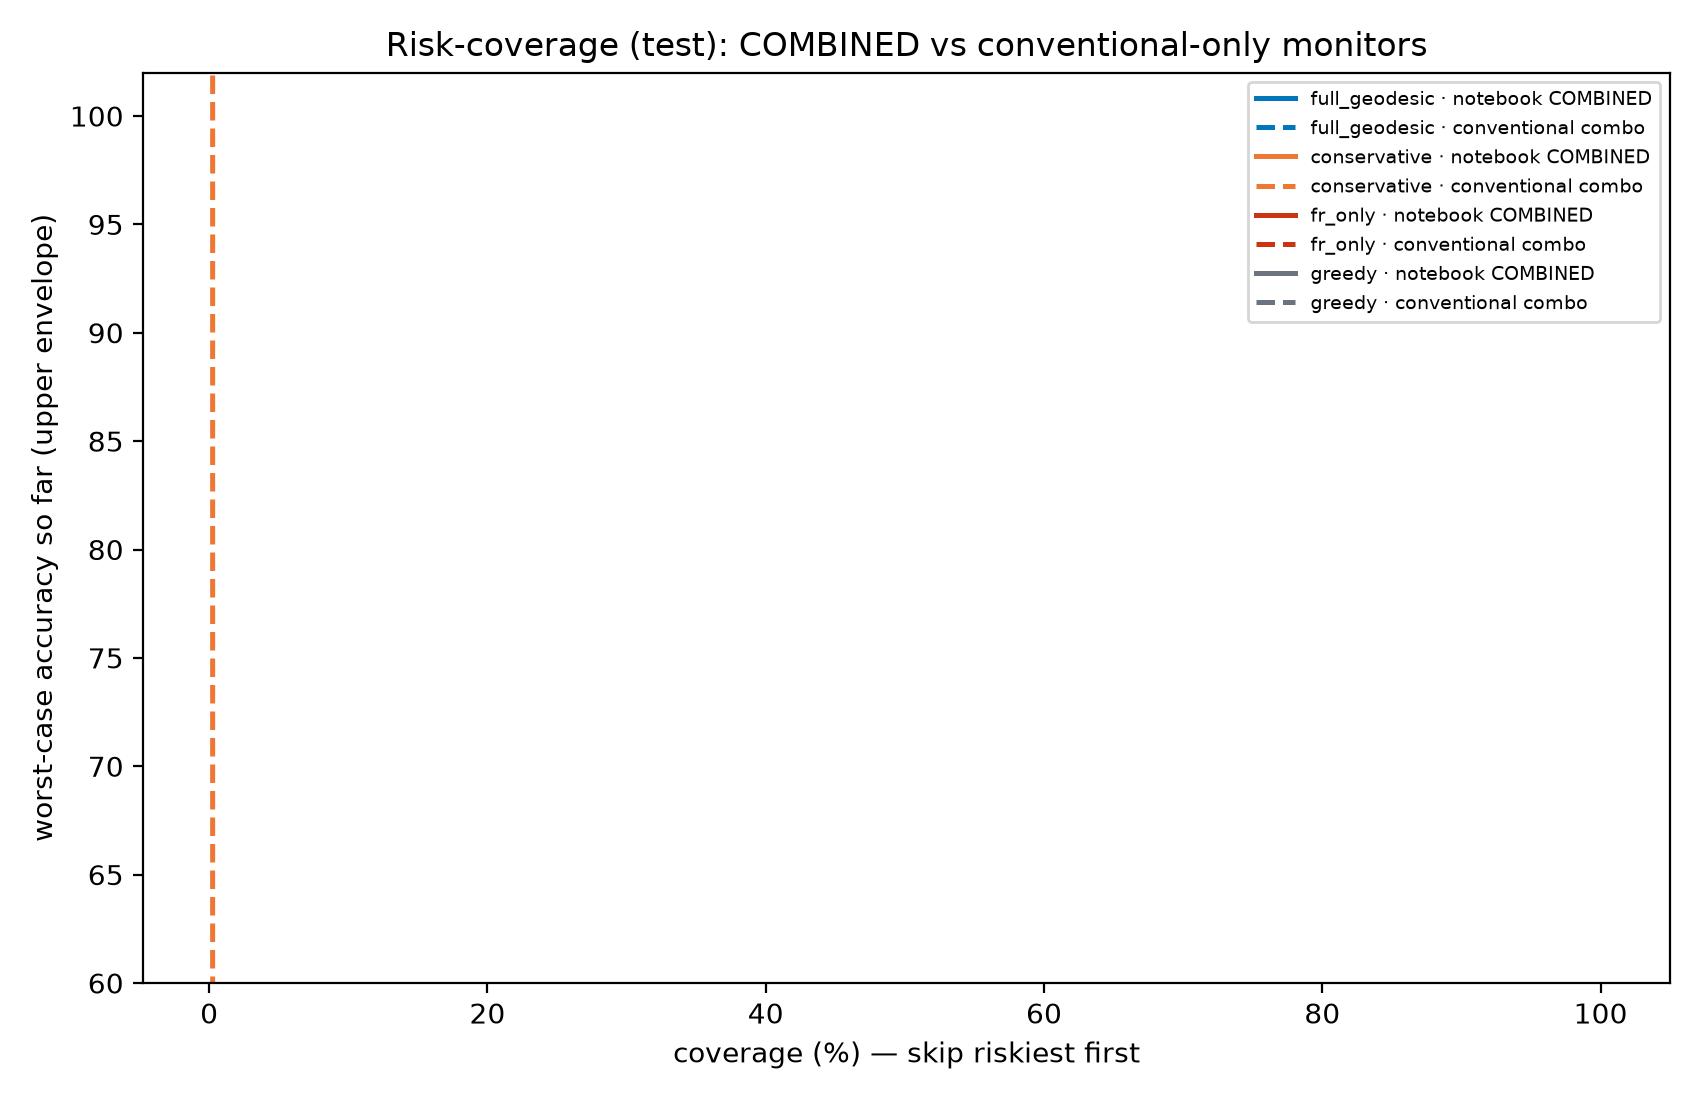
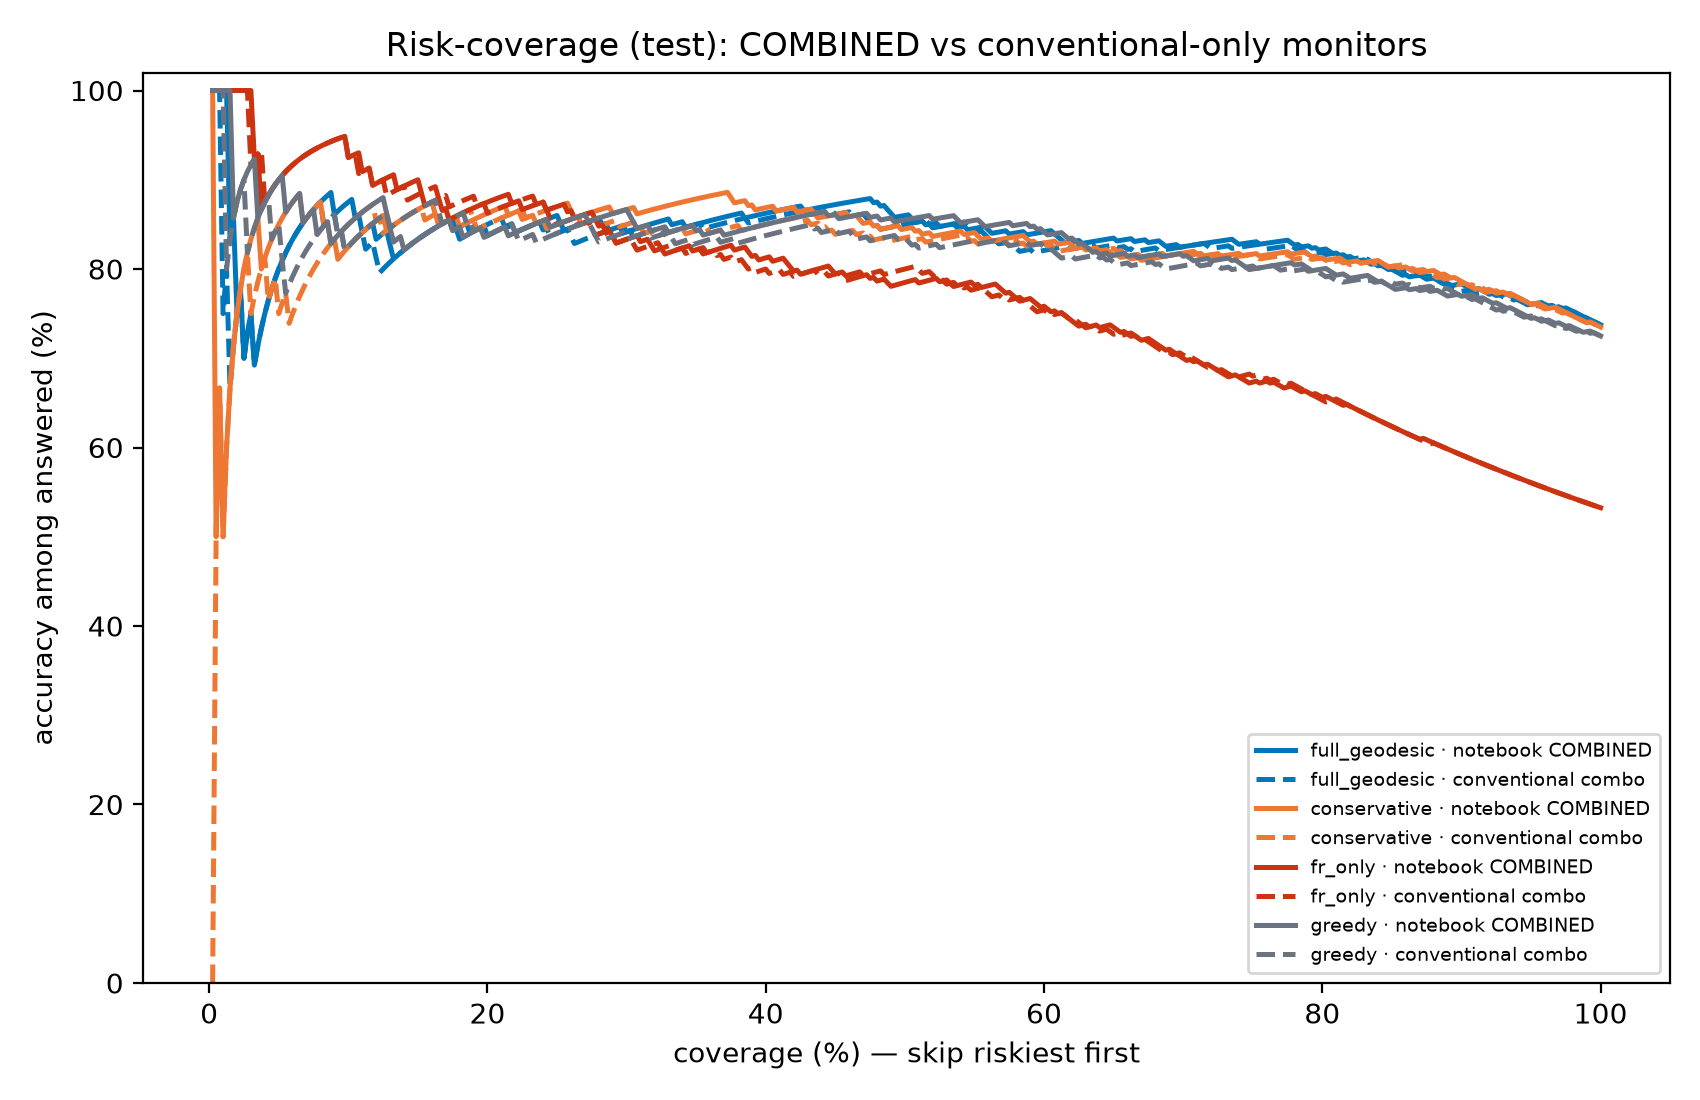
v3: fix risk-coverage normalization bug in figures + image-rich simple-English README
- BUG (D6): risk-coverage curves divided cumulative corrects by coverage fraction
  instead of question count -> y-axis showed ~30000 (mislabeled %); fixed in
  audit_analysis.py (run-1) and run2_analysis.py (run-2); figures regenerated;
  NO statistics changed (CONV 0.770219 reproduced exactly)
- README rewritten in simpler English, now embeds 4 real figures from the repo
  (AUROC forest, risk-coverage, run-1 overview/confound, reliability)
- added 30-second glossary for non-experts; honest footnote on exploratory
  CONV+max_frcons 0.775 (+0.005 n.s.)

diff --git a/analysis/audit_analysis.py b/analysis/audit_analysis.py
@@ -447,12 +447,12 @@ for m, colr in [("full_geodesic", "#0077BB"), ("conservative", "#EE7733"),
         s2 = s.dropna(subset=[monitor]).sort_values(monitor)
         yw = (s2.correct_checked == 0).astype(float).values
         cov = (np.arange(len(s2)) + 1) / len(s2)
-        acc = (1 - yw).cumsum() / cov  # accuracy among the retained prefix
+        acc = (1 - yw).cumsum() / (np.arange(len(s2)) + 1)  # accuracy among the answered prefix
         ax.plot(100 * cov, 100 * acc, color=colr, ls=ls, lw=1.8,
                 label=f"{m} · {label}")
-ax.set_ylim(60, 102); ax.legend(fontsize=7)
+ax.set_ylim(0, 102); ax.legend(fontsize=7)
 ax.set_xlabel("coverage (%) — skip riskiest first")
-ax.set_ylabel("worst-case accuracy so far (upper envelope)")
+ax.set_ylabel("accuracy among answered (%)")
 ax.set_title("Risk-coverage (test): COMBINED vs conventional-only monitors")
 fig.tight_layout(); fig.savefig(f"{FIGS}/fig_risk_coverage.png", dpi=200)
 

diff --git a/analysis/run2_analysis.py b/analysis/run2_analysis.py
@@ -314,7 +314,7 @@ def main():
         yw = test.wrong.values
         order = np.argsort(-p)
         cov = (np.arange(len(yw)) + 1) / len(yw)
-        acc = (1 - yw[order]).cumsum() / cov
+        acc = (1 - yw[order]).cumsum() / (np.arange(len(yw)) + 1)
         ax.plot(100 * cov, 100 * acc, lw=2, label=label)
     ax.axvline(80, ls="--", c="k", lw=1)
     ax.set_xlabel("coverage (%) (skip riskiest first)")

diff --git a/README.md b/README.md
@@ -1,169 +1,183 @@
-# Fisher-Rao Monitors for LLM Correctness — A Controlled Study
+# Do geometry features help catch a language model's wrong answers?
 
-**One-sentence summary for a busy reader:** In a pre-registered, artifact-audited test on 500 GSM8K questions with Qwen2.5-1.5B-Instruct, Fisher–Rao distances between candidate future continuations added **no** incremental predictive information beyond simple entropy/NLL/length features for classifying wrong answers (8/8 augmentation arms ≤ 0 ΔAUROC), and an earlier headline number (≈0.84 AUROC) is shown to be a numerator–regime confound.
+**One-sentence answer from this study: on our test, no.**
 
-This project tests one clear question: **do Fisher-Rao geometry features help
-predict when a language model gives a wrong answer, beyond simple features
-like entropy and NLL?**
+We tested a fancy idea from math ("Fisher–Rao geometry") as a way to tell when
+the model Qwen2.5-1.5B-Instruct gets a GSM8K math question wrong. The simple
+features (how surprised the model is, how long its answer is) worked.
+The geometry features added **zero** extra help.
 
-The short answer: **on our experiment, no.** We ran a controlled test. We
-report the full result honestly, including what went wrong first.
+We also show why an earlier version of this study looked much better
+(AUROC ≈ 0.84) and why that number was a trap.
 
-This repo is for GSM8K math questions. We used the **Qwen2.5-1.5B-Instruct**
-model. If you reuse our method, cite this repo and check the limits in Section
-"Known limits".
+Everything here is open. Every number comes from a file you can check.
 
 ---
 
-## What this repo contains
+## New to this? Read this first (30 seconds)
 
-| Folder / file | What it is |
-|---|---|
-| `notebooks/geodesic_study.ipynb` | The main notebook. Cell 1 is the first experiment. Cell 2 fixes the crowd-sourced top-k bug and adds clean decoding. Cell 3 is the run-2 monitor experiment. |
-| `analysis/` | All analysis code. Each script runs on its own. |
-| `kernels/` | Kaggle kernel notebooks we used on 2x T4 GPUs. |
-| `geodesic_study/` | Raw results of the first experiment (run 1). Split files, gold answers, small CSVs. |
-| `kaggle_out/` | Raw results of the second experiment (run 2). Large CSVs live here. Some are too big for GitHub. |
-| `docs/` | All reports. Start here if you just want the story. |
-| `docs/audit_phase1.md` | The audit of run 1. It found four real problems. |
-| `docs/run2_report.md` | The full report of run 2 (the controlled test). |
-| `docs/experiment_protocol.md` | The plan we froze before running. It states the rules and pass criteria. |
-| `paper/` | Draft research paper, an audit checklist, and a review-style report. |
-| `experiment/` | One plan to repeat the test on a bigger model. Not run yet. |
+- **A "monitor"** is a small helper model. It watches the big model and
+  guesses: *right answer or wrong answer?*
+- **AUROC** is a score from 0.0 to 1.0.
+  - 0.5 = coin flip (useless).
+  - 1.0 = perfect.
+  - 0.77 = clearly useful but not perfect.
+- **Entropy** = how unsure the model is about its next word. High = unsure.
+- **NLL** (negative log-likelihood) = another word for "how surprised the
+  model is". Low = confident.
+- **Fisher–Rao (FR) distance** = a smart mathematical distance between two
+  probability distributions. Our question: does this smart distance see
+  things that plain entropy cannot see?
+- **Answer: no.** On this model and task: no.
 
 ---
 
 ## The results in one minute
 
-We decoded 500 GSM8K questions with plain greedy decoding (no sampling).
-At every step we saved all 4 top tokens. For each token we saved:
-negative log probability, entropy of its next-step distribution, and
-Fisher-Rao distances between candidate futures.
+We took 500 GSM8K questions. 100 for training the monitor, 400 kept away for
+testing (untouched, frozen, never peeked at while building).
 
-Then we built small classifiers ("monitors") to predict *wrong vs. right*
-final answers. We trained on 100 questions. We tested on 400 untouched
-questions. Here is what we found.
-
-| Monitor | AUROC on test data | Notes |
+| Monitor | AUROC on 400 test questions | What it means |
 |---|---|---|
-| Entropy + NLL + length only | **0.770** (CI 0.713 - 0.821) | Best monitor. Simple features win. |
-| Same + all 6 Fisher-Rao features | 0.728 | Fisher-Rao did not help. |
-| Fisher-Rao features only | 0.661 | Weaker than simple features. |
+| Simple: entropy + NLL + answer length | **0.770** (CI 0.713 – 0.821) | Best. Simple features win. |
+| Simple + all 6 geometry features | 0.728 | Geometry made it **worse**. |
+| Geometry features only | 0.661 | Some signal, but weaker than simple. |
 
-The confidence intervals come from a paired bootstrap with 2000 resamples.
-Seed 42 everywhere. Code and data are in `analysis/` and `kaggle_out/`.
+More results, with all 8 statistical tests: one exploratory (not
+pre-registered) arm, CONV+max_frcons, scored 0.775 — that is only +0.005 and
+it is not statistically significant. Nothing else got even +0.005.
 
-**Main finding.** Fisher-Rao geometry did not add useful information here
-once entropy and length features were already used. Some Fisher-Rao features
-even hurt the monitor.
+### The main chart
 
-**A second finding.** An earlier version of our experiment showed an AUROC
-near 0.84. That number was misleading. The reason: bad sampling made the
-model fail more often, and that regime made simple features look very
-strong. The paper and `docs/run2_report.md` explain this step by step.
+*Every monitor tested. The dashed line at 0.5 = coin flip. Higher = better.
+The best simple setup sits near 0.77; the geometry-only setups sit lower.*
+
+![Monitor AUROC chart with 95% confidence intervals](analysis/figures/fig_auroc_forest.png)
+
+### What "skipping hard questions" looks like
+
+If the monitor is good, you can skip the questions it marks as risky and the
+questions you do answer become more accurate. Here is that trade-off.
+At the 80% line (answer 80% of questions), the simple monitor and the
+geometry monitor are close to each other or the simple one is better.
+
+![Risk coverage curves](analysis/figures/fig_run2_risk_coverage.png)
+
+### The trap: what the old ≈0.84 number really was
+
+In our first run, one decoding arm accidentally made the model much weaker
+(52% accuracy instead of 72%). In that broken regime, simple features looked
+amazing (AUROC ≈ 0.84). But that was a feature of the broken regime, not a
+feature of the geometry method. We show the pieces of this mistake
+step-by-step in the paper. This chart shows how much worse the weak arm was:
+
+![Accuracy of 6 decoding methods, run 1](geodesic_study/accuracy_overview.png)
+
+*The red bar (`fr_only`, 52%) is the accidentally weak decoding arm.
+Everything else is ~72%.*
+
+### Honesty chart: our monitor scores are ranks, not probabilities
+
+The monitors output a risk score. We scale it to 0–1 for plots. It is a
+*ranking*, not a calibrated probability. This is stated everywhere.
+
+![Reliability curves](analysis/figures/fig_reliability.png)
 
 ---
+
+## Why you can trust these numbers
+
+- Frozen test set. We never tuned anything on it.
+- We wrote the pass/fail rules **before** looking at the run-2 results.
+- Decoding is fully deterministic. Re-running gives byte-identical outputs
+  (we checked, via md5, across two separate GPU sessions).
+- We found **four bugs in our own analysis**. We fixed them, and we published
+  the wrong version *and* the fixed version, so you can see the difference.
+- Independent checks with sklearn matched our own code exactly (0.0
+  difference) on every monitor.
+- Two previous headline claims from this project were themselves wrong — the
+  README you are reading now is the corrected story.
 
 ## Where this sits in the literature
 
 We searched arXiv (cs.CL) on 2026-10-17. Nobody we found tests
-"Fisher-Rao distance between candidate futures" as a monitor feature the way
-this study does. But Fisher-Rao geometry IS being used in other LLM roles —
+"Fisher–Rao distance between candidate futures" as a monitor feature the way
+this study does. But Fisher–Rao geometry **is** used in other LLM roles —
 most importantly, a concurrent preprint (Belief-Trajectory Energy,
-arXiv:2610.05114) shows Fisher-Rao structure in layer-wise belief updates
+arXiv:2610.05114) shows Fisher–Rao structure in layer-wise belief updates
 predicts errors. Our null result is about *token-level candidate divergence
-features*, which is a different point in the pipeline. The paper's Related
-Work section (§3) and References list all verified sources with DOIs.
+features*, a different point in the pipeline. The paper's §3 and the
+References list every source with its verified DOI or arXiv ID.
 
 ---
 
-## Why this experiment is trustworthy
+## Run it yourself
 
-- Split is frozen. We never tune anything on the test set.
-- We wrote the pass/fail rules before we looked at run-2 results.
-- Decoding is fully deterministic. Ties go to the smaller token id.
-  Re-running gives byte-identical outputs.
-- Every number in the reports comes from a released CSV file.
-- Independent metric checks (sklearn) matched our own code on every row.
-- We found four bugs in our own first analysis. We fixed them. We published
-  both the wrong and the corrected versions so you can check what changed.
-- We report negative results. There is no cherry-picking here.
-
----
-
-## How to run this yourself
-
-You need Python 3.11+ and about 16 GB RAM for the analysis. For the GPU runs
-you can use free Kaggle 2x T4 sessions, like we did.
+You need Python 3.11+ and about 16 GB of RAM.
 
 ```bash
 pip install -r requirements.txt
+```
 
-# Raw-data integrity checks for run 2 (fast, CPU only)
-python analysis/audit_raw_A1A4.py
+**Important:** two raw data folders are too big for GitHub, so first
+(optional, only if you want the full raw data):
+```bash
+kaggle kernels output pikanigga/geodesic-run-2-full -p kaggle_out/full
+```
 
-# Rebuild every number, table, and figure of the run-2 analysis
+Then rebuild every table and figure of the main analysis:
+```bash
 python analysis/run2_analysis.py --indir kaggle_out/full/geodesic_study2 --outdir analysis/outputs2
 ```
 
-Output tables go to `analysis/outputs2/`. Figures go to `analysis/figures/`.
+You should get the exact numbers above (seed 42, deterministic). The small
+score tables (`analysis/outputs2/*.csv`) **are** in this repo, so you can
+verify against them without downloading anything.
 
-To repeat the *generation* (the GPU part), open `kernels/` and push a kernel
-to Kaggle, or run `notebooks/geodesic_study.ipynb` cell 3 on Kaggle. Each
-full run costs about 15-19 T4-hours. A small test of 2 questions costs about
-2 minutes, so start with that first.
-
----
-
-## Data notes (what is NOT on GitHub)
-
-Some raw files are too big for GitHub (50 MB+):
-
-- `geodesic_study/token_traces*.csv` (run-1 per-token traces, about 160 MB)
-- `geodesic_study2/monitor_candidates*.csv` (run-2 candidate table, about 54 MB)
-
-Two ways to get them:
-
-1. Download from Kaggle: `kaggle kernels output pikanigga/geodesic-run-2-full -p kaggle_out/full`
-2. Re-run the kernels yourself.
-
-Small key files *are* in this repo: `predictions.csv`, `split_map.csv`,
-`summary.csv`, `monitor_answers.csv`, `monitor_steps.csv` (per part), and all
-test scores in `analysis/outputs2/`.
+To redo the *GPU generation* part, use the Kaggle notebooks in `kernels/`
+(cost: about 15-19 T4-hours; a 2-question smoke costs ~2 minutes).
 
 ---
 
-## Known limits (please read)
+## What is in this repo
 
-- One model (1.5B), one dataset (GSM8K), bf16. Do not assume results extend to
-  other models or tasks.
-- Lookahead is one token. Longer lookahead was never tested.
-- Test set has 400 questions. Our paired CIs can rule out Fisher-Rao gains
-  bigger than about +0.04 AUROC, but nothing smaller.
-- Monitors use per-question averages. Step-level sequence models may behave
-  differently. This is untested.
-- The protocol was written after we audited run 1. It is a documented replication,
-  not a blind pre-registration. We say this openly in the paper.
-
----
+| Folder / file | What it is |
+|---|---|
+| `notebooks/geodesic_study.ipynb` | The main notebook (3 cells: run-1 study, run-1 fix, run-2 monitor). |
+| `analysis/` | All analysis code + small result CSVs + figures. |
+| `kernels/` | Kaggle notebook sources for the 2x-T4 GPU runs. |
+| `geodesic_study/` | Run-1 raw results (big CSVs excluded, see above). |
+| `kaggle_out/` | Run-2 raw results (excluded from git; download command above). |
+| `docs/` | The reports: audit, run-2 report, frozen protocol. |
+| `paper/` | The paper draft, the audit checklist, a review-style report. |
+| `experiment/` | A written plan (not yet approved) to repeat on Qwen2.5-3B. |
 
 ## Suggested reading order
 
-1. `docs/run2_report.md` — the whole run-2 story, short version.
-2. `paper/paper_draft.md` — the submission draft with all numbers.
-3. `paper/audit_checklist.md` — every check, evidence, and open item.
-4. `docs/audit_phase1.md` — how we found and fixed our own problems.
-5. `experiment/replication_protocol.md` — the plan for a 3B replication
-   (pending approval, not run).
+1. This README.
+2. `docs/run2_report.md` — full run-2 story.
+3. `paper/paper_draft.md` — the paper with all numbers and caveats.
+4. `paper/audit_checklist.md` — every check we ran, evidence per line.
+5. `experiment/replication_protocol.md` — the not-yet-run 3B plan.
 
----
+## Known limits (please read)
 
-## Citation / reuse
+- One model (1.5B), one dataset (GSM8K), bf16. Results do not automatically
+  extend to other models or tasks.
+- Lookahead is one token. Longer lookahead: untested.
+- With 400 test questions, our confidence intervals can rule out geometry
+  gains bigger than about +0.04 AUROC. Gains smaller than that: possible,
+  we cannot see them.
+- The monitors use one score per question. Step-level sequence models might
+  behave differently. Untested.
+- The replication plan is written but **not run**.
 
-Model: Qwen2.5-1.5B-Instruct (Apache-2.0, provided by Alibaba's Qwen team).
-Dataset: GSM8K (Cobbe et al., 2021). Kaggle notebook GPUs (2x T4).
+## Credits & license
 
-License: MIT (see `LICENSE`).
+- Model: Qwen2.5-1.5B-Instruct (Apache-2.0, Alibaba Qwen team).
+- Dataset: GSM8K (Cobbe et al., 2021).
+- Compute: free Kaggle notebook GPUs (2x T4).
+- License: MIT (see `LICENSE`). Cite via `CITATION.cff`.
 
-If this repo saved you from believing a *confounded* AUROC, that was the
-point — negative and corrected results are still science.
+If this repo saved you from believing a *confounded* AUROC — that was the
+point. Negative results, done carefully, are still science.

diff --git a/paper/audit_checklist.md b/paper/audit_checklist.md
@@ -117,5 +117,12 @@ All five (D4 counted) → **disclosure audit PASS**.
 - `paper/paper_draft.md` — v1.0 → v1.1 (novelty hedging, redundancy values, reproduction statement, reference header).
 - `paper/paper_draft.md` — v1.2 (2026-10-17): references machine-verified (2 metadata fixes), Related-Work search performed and documented, concurrent 2026 FR-geometry preprints added as adjacent work.
 - `paper/audit_checklist.md` — OPEN items 1–2 resolved with documented evidence (see §6).
+- **D6 (2026-10-17, v1.3): risk–coverage plotting normalization bug found and fixed**
+  in both `audit_analysis.py` (run-1) and `run2_analysis.py` (run-2): the
+  cumulative correct count was divided by the coverage *fraction* instead of
+  the number answered, inflating the plotted y-scale ~n-fold (y-axis showed
+  "30000 %" instead of ~72%). Neither statistic table, nor any AUROC/AUPRC, is
+  affected (figures only); reruns reproduced CONV 0.770219 [0.7125, 0.8208]
+  exactly. Both figures regenerated and embedded in the README.
 - Raw data: never modified (A1–A4 read-only scripts).
 - No git commit was made by the agent (repo state left to the author).
